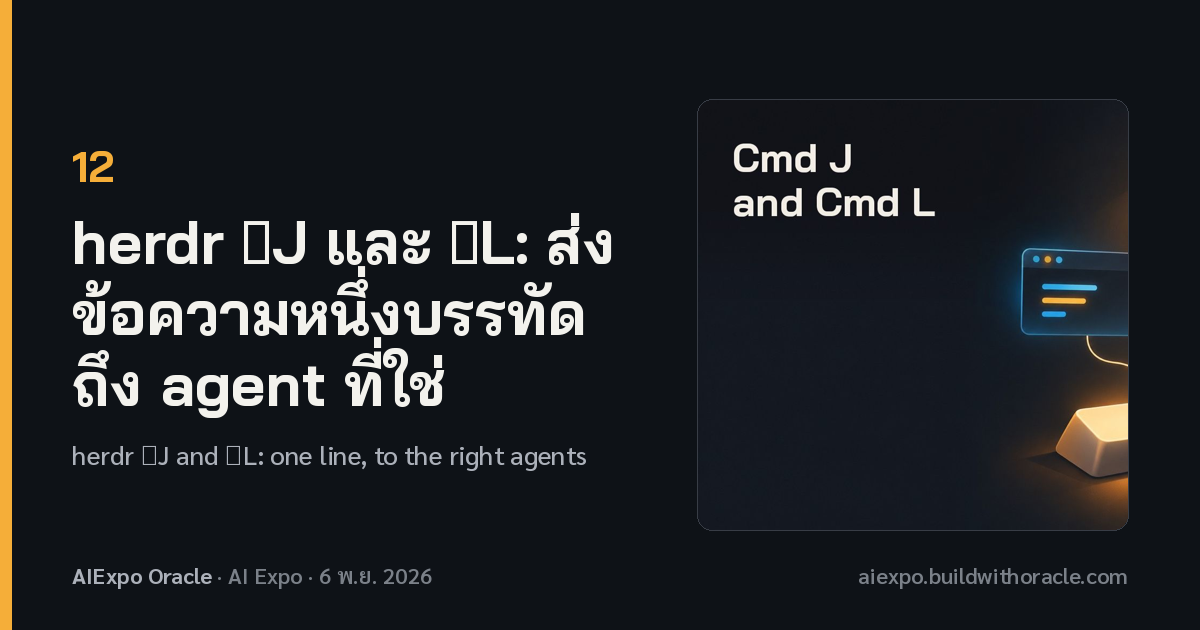
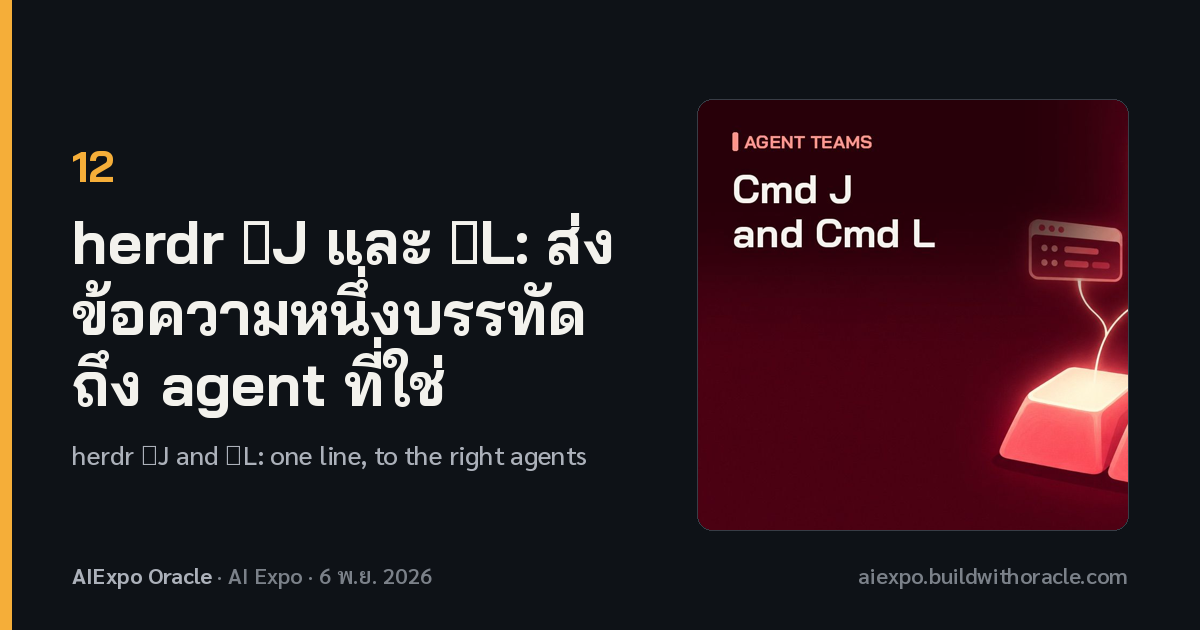
feat(site): lesson covers v2, one colour world per landing group so the cards are easy to scan
v1 gave all 14 covers the same dark room and amber lamp, so the cards blurred together. v2 keeps each lesson's
subject but colours each landing group: start/connect teal, build green, memory (relic5) violet, agent teams
(herdr) wine red, stories (Phukhao) dawn sky. A small group tag in the group colour sits above each title.
The scrim behind the title takes the picture's own dark tone, and the title gets a soft shadow so a bright
picture never wins. Link-preview cards rebuilt from the new covers. Recipe: covers/gen2.sh + covers/title.py.
(Nat, 8 Nov: "make cover to let it easy to scan make it differnce! ... and then deploy")

Changed region(s): [[0.555, 0.1508, 0.9558, 0.8444]]

diff --git a/ψ/writing/books/covers/title.py b/ψ/writing/books/covers/title.py
@@ -12,20 +12,39 @@ T = {"claude-chatgpt": "Install|Claude & ChatGPT", "ego-lite": "A Browser|for Yo
      "build-mcp": "Build Your|Own MCP", "agy-mcp": "Antigravity CLI|+ MCP", "skills-mcp": "Skills, Voice|and Video",
      "relic5-ui": "A Tour of|relic5", "team-charter": "From Picture|to Team", "herdr-cmd-j": "Cmd J|and Cmd L",
      "relic5-install": "Every Machine,|One Hub", "signature": "The Lessons'|Signature"}
+# v2 (Nat, 8 Nov: "make cover easy to scan, make it different"): each landing group has its own colour world (gen2.sh)
+# and a small group tag above the title in that colour; the scrim behind the title takes the picture's own dark tone
+GROUP = {"skills-mcp": "start", "mcp-connect": "start", "agy-mcp": "start", "ego-lite": "start", "claude-chatgpt": "start",
+         "build-mcp": "build", "signature": "build", "relic5-install": "memory", "relic5-ui": "memory",
+         "team-charter": "team", "herdr-room": "team", "herdr-cmd-j": "team", "phukhao-journey": "story", "phukhao-film": "story"}
+TAG = {"start": ("START · CONNECT", (110, 231, 222)), "build": ("BUILD", (178, 236, 120)), "memory": ("MEMORY", (196, 176, 255)),
+       "team": ("AGENT TEAMS", (255, 150, 140)), "story": ("STORIES", (255, 200, 130))}
 W, H, X, Y, MAXW = 1200, 800, 64, 60, 0.56
 d0 = ImageDraw.Draw(Image.new("RGB", (W, H)))
 SIZE = 96   # one size for all: the largest at which the widest line of any title fits in the left half
 while max(d0.textlength(l, font=face(SIZE)) for t in T.values() for l in t.split("|")) > W * MAXW: SIZE -= 2
 F, LH = face(SIZE), int(SIZE * 1.12)
+TF, TH = face(34), 58   # group tag: size and the space it takes above the title
 def run(src_tpl, dst_dir, keys):
     for k in keys:
         im = Image.open(src_tpl.format(k)).convert("RGB").resize((W, H))
+        tag, col = TAG[GROUP[k]]
+        dark = tuple(int(c * 0.45) for c in im.crop((0, 0, int(W * 0.4), int(H * 0.4))).resize((1, 1), Image.Resampling.BOX).getpixel((0, 0)))
         sc = Image.new("L", (W, H), 0)
-        ImageDraw.Draw(sc).rectangle([0, 0, int(W * 0.58), Y + 2 * LH + 50], fill=140)
-        im = Image.composite(Image.new("RGB", (W, H), (14, 14, 16)), im, sc.filter(ImageFilter.GaussianBlur(70)))
+        ImageDraw.Draw(sc).rectangle([0, 0, int(W * 0.62), Y + TH + 2 * LH + 40], fill=215)
+        im = Image.composite(Image.new("RGB", (W, H), dark), im, sc.filter(ImageFilter.GaussianBlur(70)))
         d = ImageDraw.Draw(im)
+        d.rounded_rectangle([X, Y, X + 10, Y + 34], radius=3, fill=col)
+        d.text((X + 22, Y - 4), tag, font=TF, fill=col)
+        sh = Image.new("L", (W, H), 0)   # soft shadow under the title, so a bright picture behind it never wins
         for n, line in enumerate(T[k].split("|")):
-            d.text((X, Y + n * LH), line, font=F, fill=(242, 238, 230))
+            ImageDraw.Draw(sh).text((X, Y + TH + n * LH), line, font=F, fill=200)
+        im = Image.composite(Image.new("RGB", (W, H), dark), im, sh.filter(ImageFilter.GaussianBlur(14)))
+        d = ImageDraw.Draw(im)
+        d.rounded_rectangle([X, Y, X + 10, Y + 34], radius=3, fill=col)
+        d.text((X + 22, Y - 4), tag, font=TF, fill=col)
+        for n, line in enumerate(T[k].split("|")):
+            d.text((X, Y + TH + n * LH), line, font=F, fill=(246, 244, 238))
         im.save(f"{dst_dir}/{k}.jpg", quality=80, optimize=True)
     print("size", SIZE, "keys", len(keys))
 if __name__ == "__main__":
